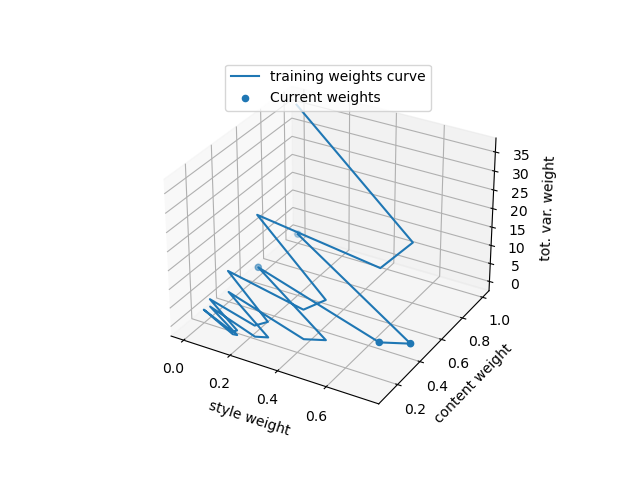
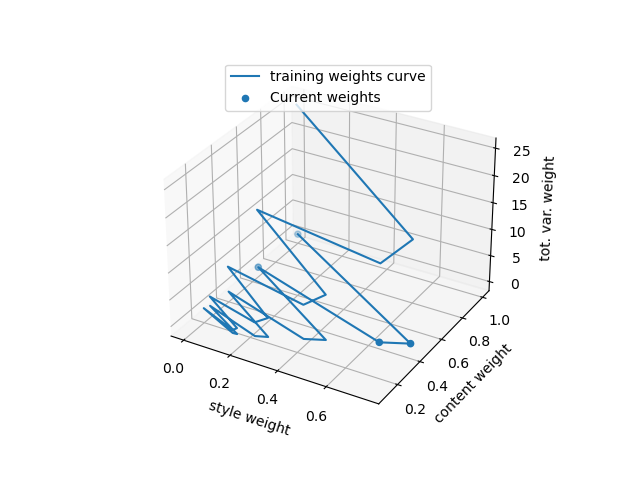
commit

diff --git a/create_gif_params_inputs.py b/create_gif_params_inputs.py
@@ -11,7 +11,7 @@ from PIL import Image
 def convert_parametric(x, y, z):
     sw_l = [abs(s/5) for s in x]
     cw_l = [abs(s/5) for s in y]
-    tvw_l = [6**s for s in z]
+    tvw_l = [5**s for s in z]
     return sw_l, cw_l, tvw_l
 
 # Prepare inputs
